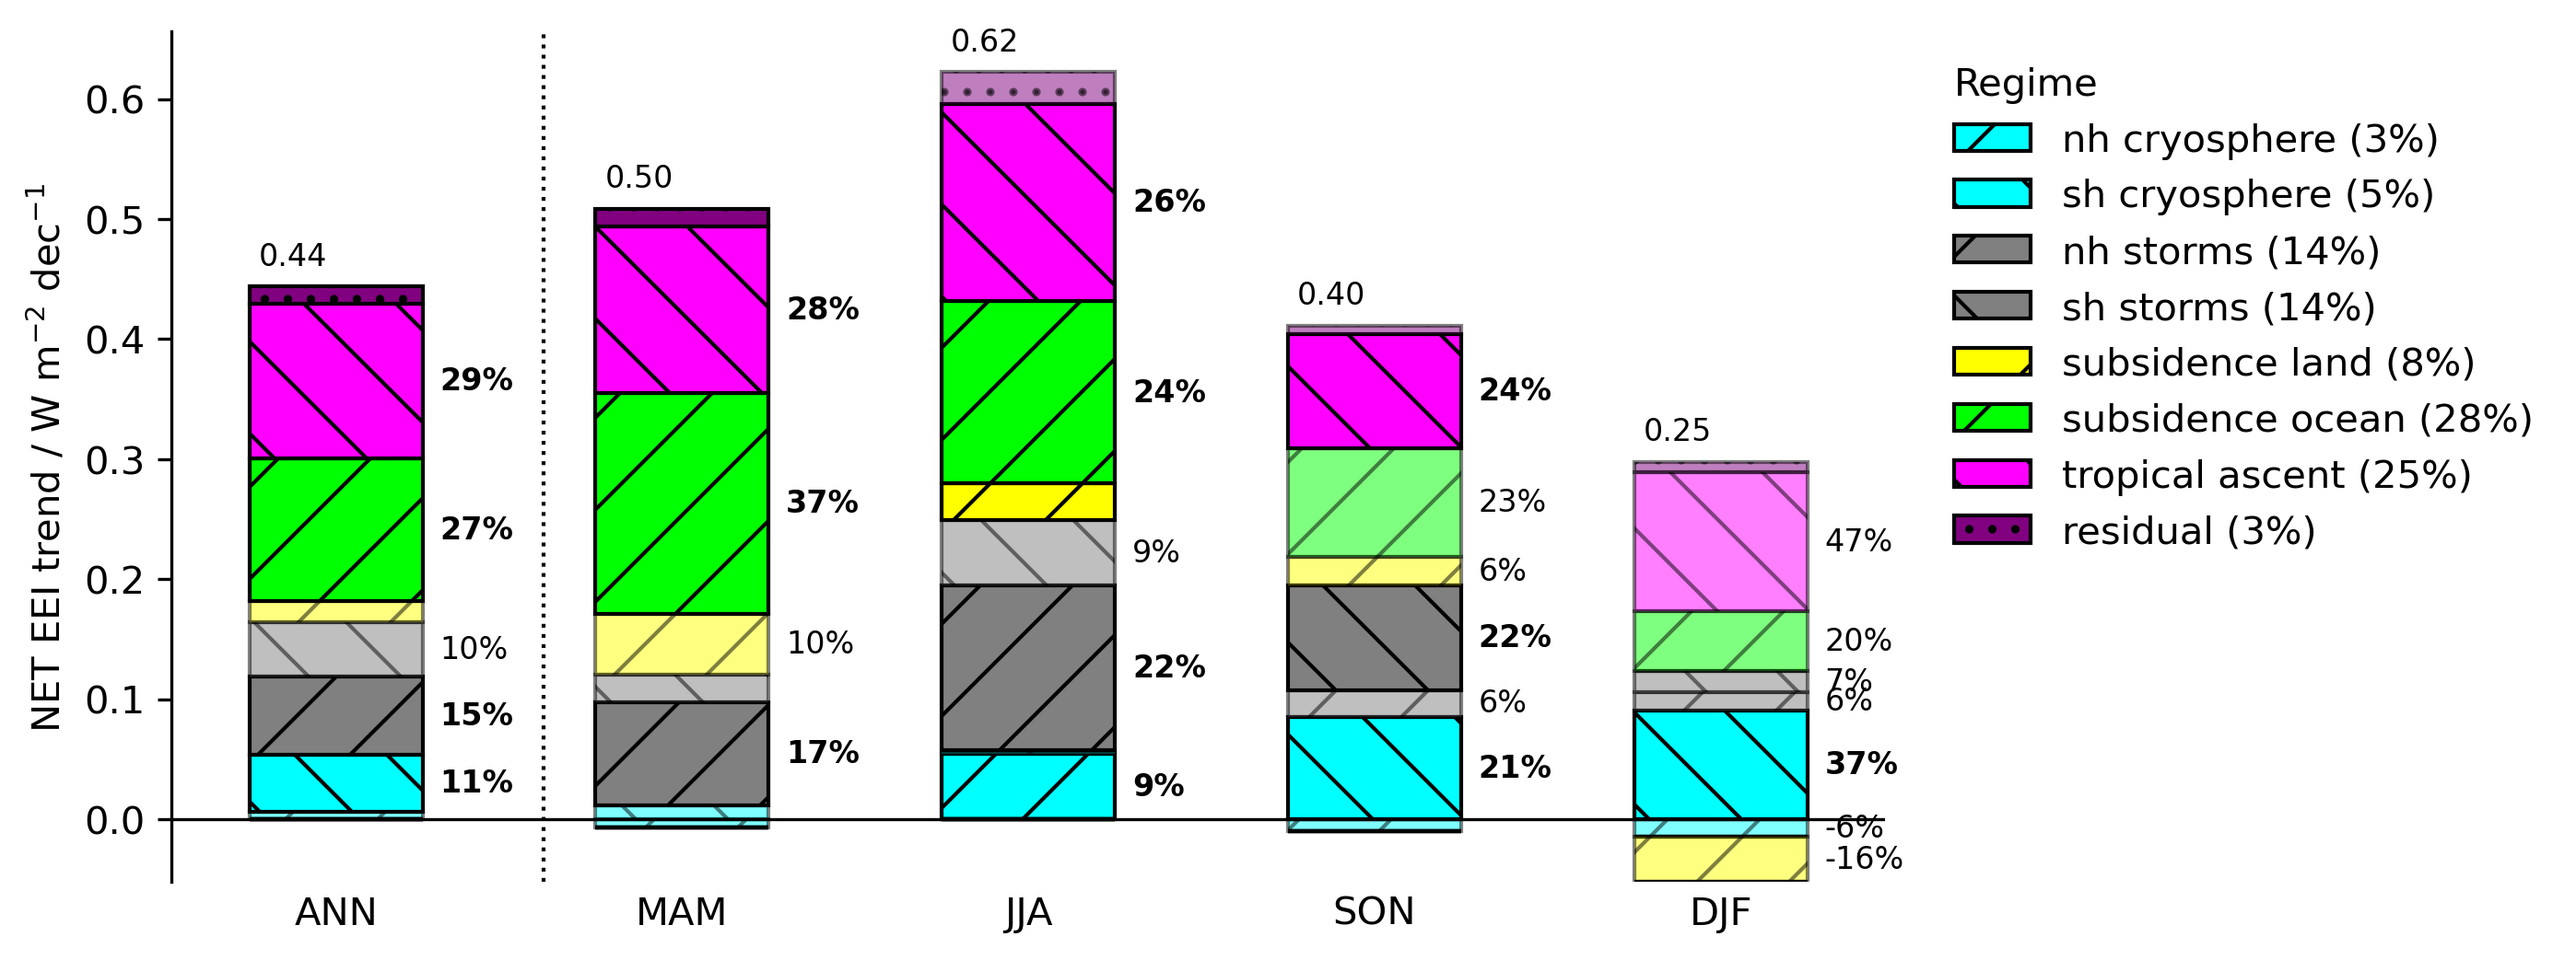
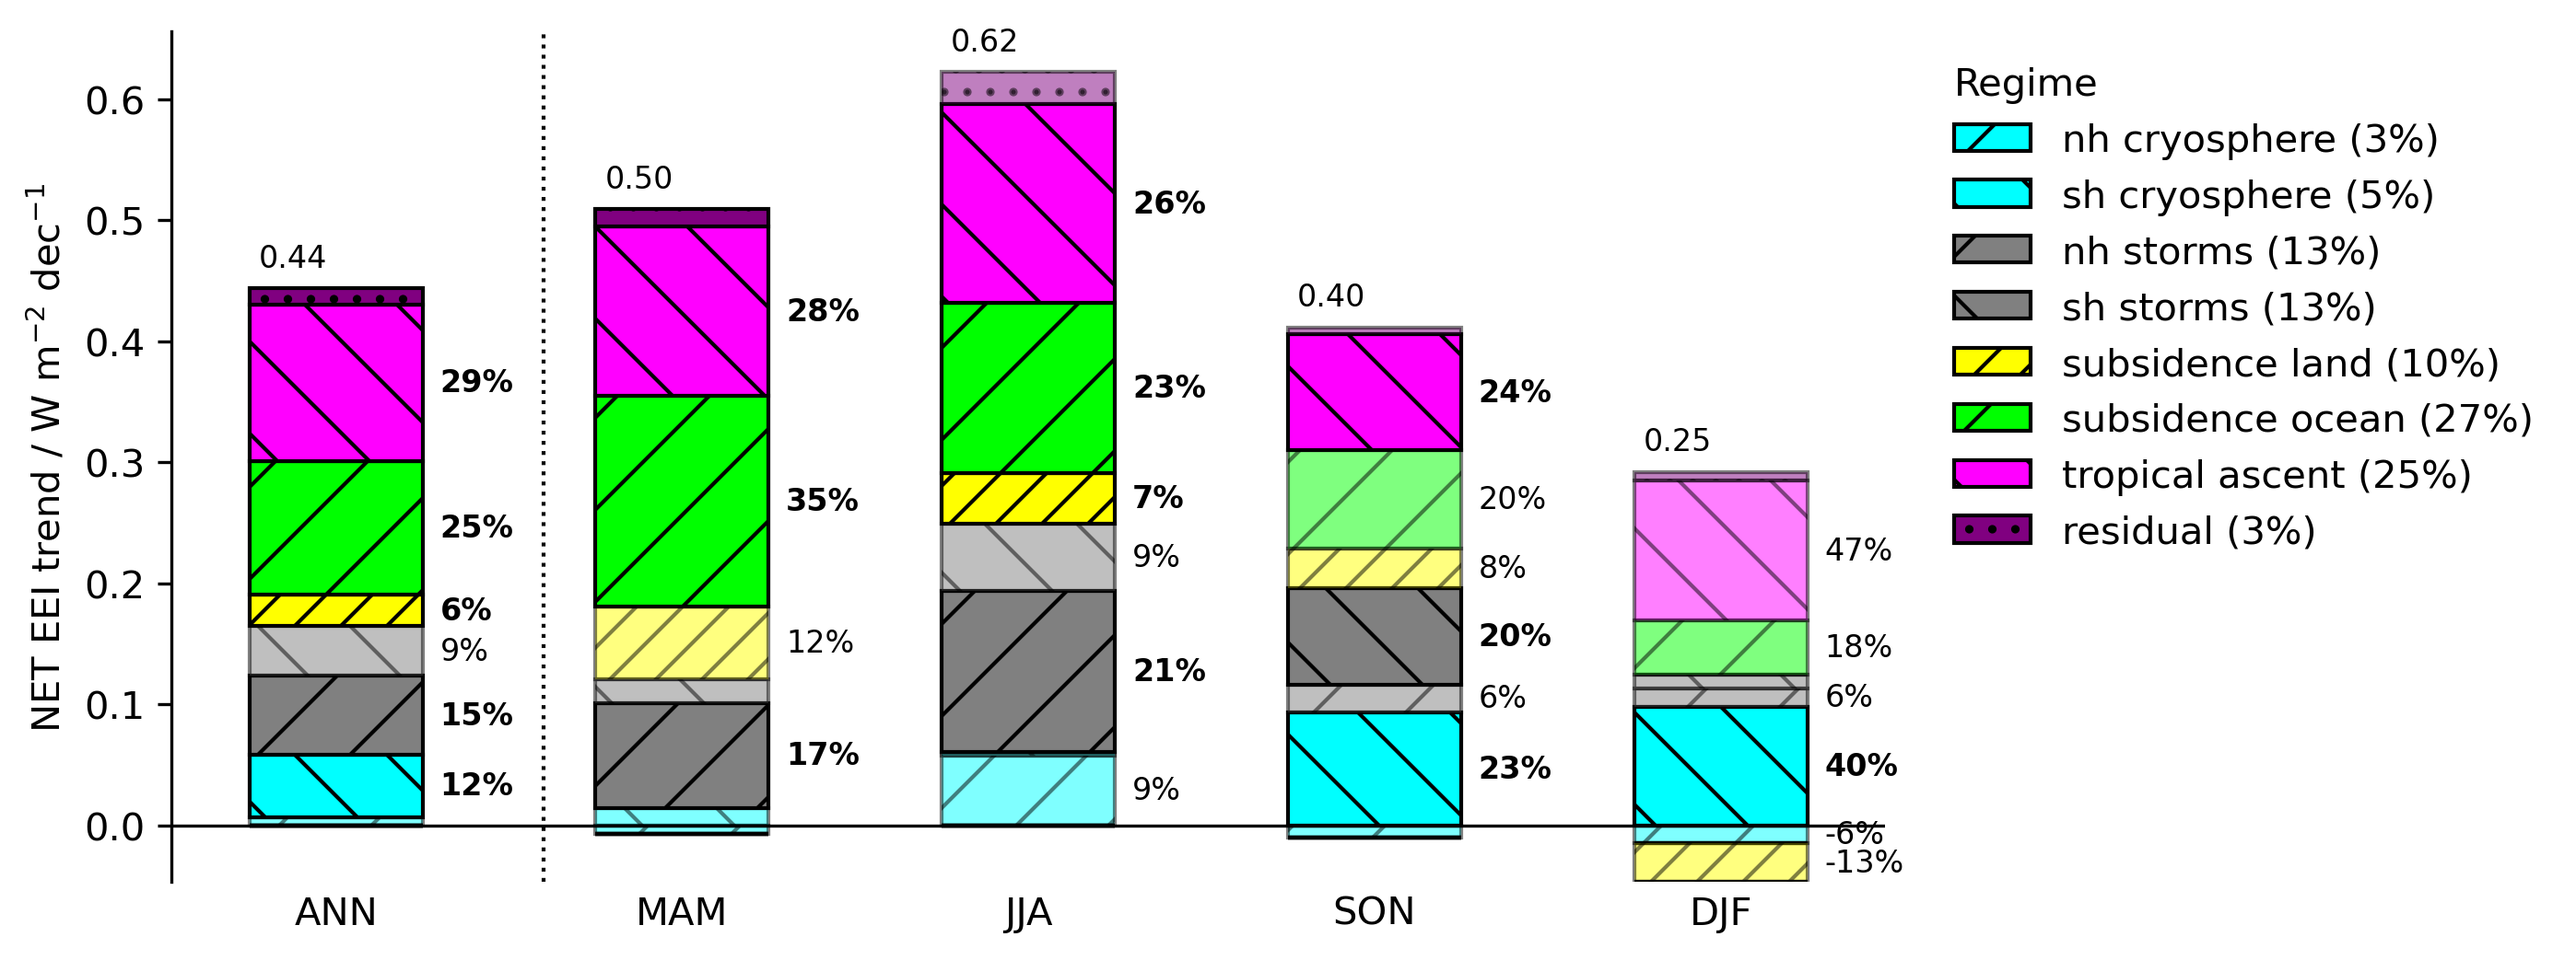
update all plots with fixed mask

diff --git a/make_figs/figure_trends_per_regime.py b/make_figs/figure_trends_per_regime.py
@@ -3,7 +3,6 @@ import xarray as xr
 import matplotlib.pyplot as plt
 
 PLOT_SEASON = "ANN"
-AREA_WEIGHT = True
 
 # --- color scheme (physically intuitive) ---
 colors = {
@@ -21,77 +20,79 @@ ds = ds.sel(regime=[
     "nh_storms", "nh_cryosphere", "residual"
 ])
 regimes = ds.regime.values
-if not AREA_WEIGHT:
-    ds /= ds.area_fraction
 
-x = np.arange(len(regimes))
-width = 0.35  # bar width
-x = x - width/2
-alpha_light = 0.5
+for AREA_WEIGHT in [False, True]:
+    if not AREA_WEIGHT:
+        ds /= ds.area_fraction
 
-fig, ax = plt.subplots(figsize=(10,4))
-for i,sky in enumerate(["clr","cre"]):
-    x += width*i
-    bottom_pos = np.zeros(len(regimes))
-    bottom_neg = np.zeros(len(regimes))
+    x = np.arange(len(regimes))
+    width = 0.35  # bar width
+    x = x - width/2
+    alpha_light = 0.5
 
-    for comp in ["sw", "lw"]:
-        key = comp+"_"+sky
-        values = ds[key+"_slope_mean"].values
-        ci = ds[key+"_slope_ci"].values
-        sig = np.abs(values) > ci
+    fig, ax = plt.subplots(figsize=(10,4))
+    for i,sky in enumerate(["clr","cre"]):
+        x += width*i
+        bottom_pos = np.zeros(len(regimes))
+        bottom_neg = np.zeros(len(regimes))
 
-        pos = np.clip(values, 0, None)
-        neg = np.clip(values, None, 0)
+        for comp in ["sw", "lw"]:
+            key = comp+"_"+sky
+            values = ds[key+"_slope_mean"].values
+            ci = ds[key+"_slope_ci"].values
+            sig = np.abs(values) > ci
 
-        for i,xi in enumerate(x):
-            ax.bar(x[i] - width/2, pos[i], width,
-                bottom=bottom_pos[i],
-                color=colors[key],
-                alpha=alpha_light + sig[i]*(1-alpha_light),
-                label=key,
-            )
+            pos = np.clip(values, 0, None)
+            neg = np.clip(values, None, 0)
 
-            ax.bar(x[i] - width/2, neg[i], width,
-                bottom=bottom_neg[i],
-                color=colors[key],
-                alpha=alpha_light + sig[i]*(1-alpha_light),
-            )
+            for i,xi in enumerate(x):
+                ax.bar(x[i] - width/2, pos[i], width,
+                    bottom=bottom_pos[i],
+                    color=colors[key],
+                    alpha=alpha_light + sig[i]*(1-alpha_light),
+                    label=key,
+                )
 
-        bottom_pos += pos
-        bottom_neg += neg
-    
-    net = ds["net_"+sky+"_slope_mean"].values
-    offset = 0.2
+                ax.bar(x[i] - width/2, neg[i], width,
+                    bottom=bottom_neg[i],
+                    color=colors[key],
+                    alpha=alpha_light + sig[i]*(1-alpha_light),
+                )
+
+            bottom_pos += pos
+            bottom_neg += neg
+        
+        net = ds["net_"+sky+"_slope_mean"].values
+        offset = 0.2
+        if AREA_WEIGHT:
+            offset /= 10
+        for i in range(len(regimes)):
+            ax.text(x[i] - width/2, bottom_pos[i] + offset, f"{net[i]:.2f}",
+                ha="center", va="top", fontsize=8)
+
+
+    # --- formatting ---
+    ax.set_xticks(x-width)
+    rlabels = [r.replace("_"," ") for r in regimes]
+    ax.set_xticklabels(rlabels, rotation=45, ha="right")
+
     if AREA_WEIGHT:
-        offset /= 10
-    for i in range(len(regimes)):
-        ax.text(x[i] - width/2, bottom_pos[i] + offset, f"{net[i]:.2f}",
-            ha="center", va="top", fontsize=8)
+        ax.set_ylabel("EEI trend area-weighted / W m$^{-2}$ dec$^{-1}$")
+    else:
+        ax.set_ylabel("EEI trend / W m$^{-2}$ dec$^{-1}$")
+    ax.axhline(0, color="k", linewidth=0.8)
 
+    ax.spines["top"].set_visible(False)
+    ax.spines["right"].set_visible(False)
 
-# --- formatting ---
-ax.set_xticks(x-width)
-rlabels = [r.replace("_"," ") for r in regimes]
-ax.set_xticklabels(rlabels, rotation=45, ha="right")
+    # legend (clean duplicates)
+    handles, labels = ax.get_legend_handles_labels()
+    by_label = dict(zip(labels, handles))
+    ax.legend(by_label.values(), by_label.keys(), frameon=False, ncol=2, loc=3)
 
-if AREA_WEIGHT:
-    ax.set_ylabel("EEI trend area-weighted / W m$^{-2}$ dec$^{-1}$")
-else:
-    ax.set_ylabel("EEI trend / W m$^{-2}$ dec$^{-1}$")
-ax.axhline(0, color="k", linewidth=0.8)
-
-ax.spines["top"].set_visible(False)
-ax.spines["right"].set_visible(False)
-
-# legend (clean duplicates)
-handles, labels = ax.get_legend_handles_labels()
-by_label = dict(zip(labels, handles))
-ax.legend(by_label.values(), by_label.keys(), frameon=False, ncol=2, loc=3)
-
-if AREA_WEIGHT:
-    plt.savefig(f"figures/regime_trend_barchart_{PLOT_SEASON}_areaweight.png",
-            dpi=300, bbox_inches='tight')
-else:
-    plt.savefig(f"figures/regime_trend_barchart_{PLOT_SEASON}.png",
-            dpi=300, bbox_inches='tight')
+    if AREA_WEIGHT:
+        plt.savefig(f"figures/regime_trend_barchart_{PLOT_SEASON}_areaweight.png",
+                dpi=300, bbox_inches='tight')
+    else:
+        plt.savefig(f"figures/regime_trend_barchart_{PLOT_SEASON}.png",
+                dpi=300, bbox_inches='tight')
